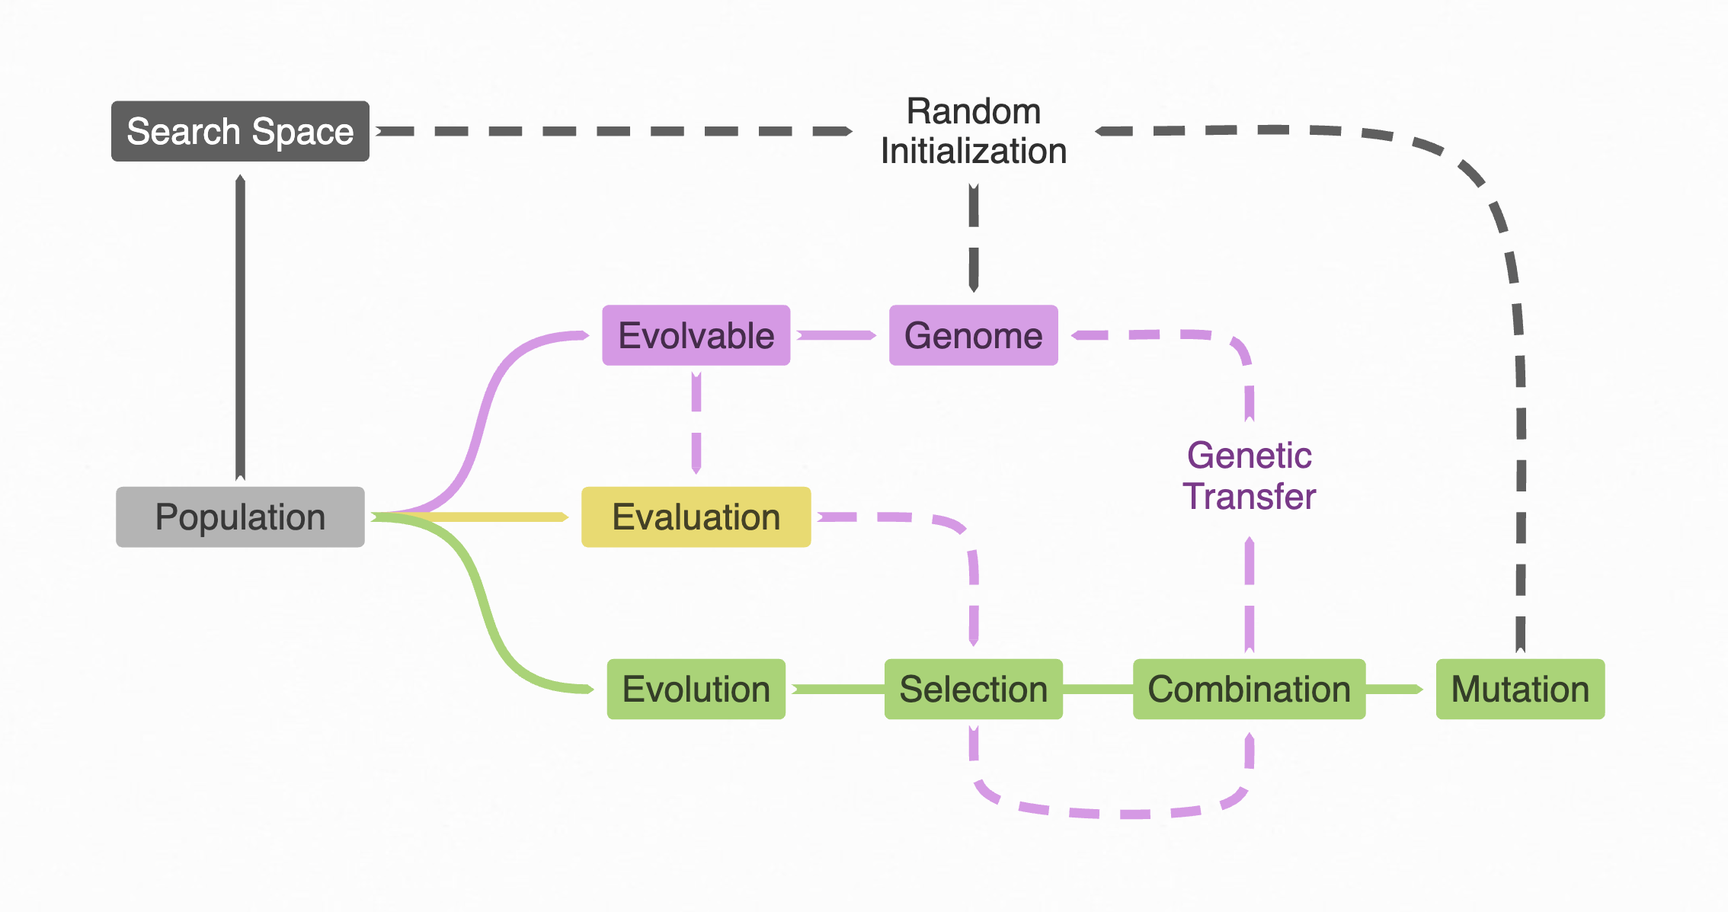
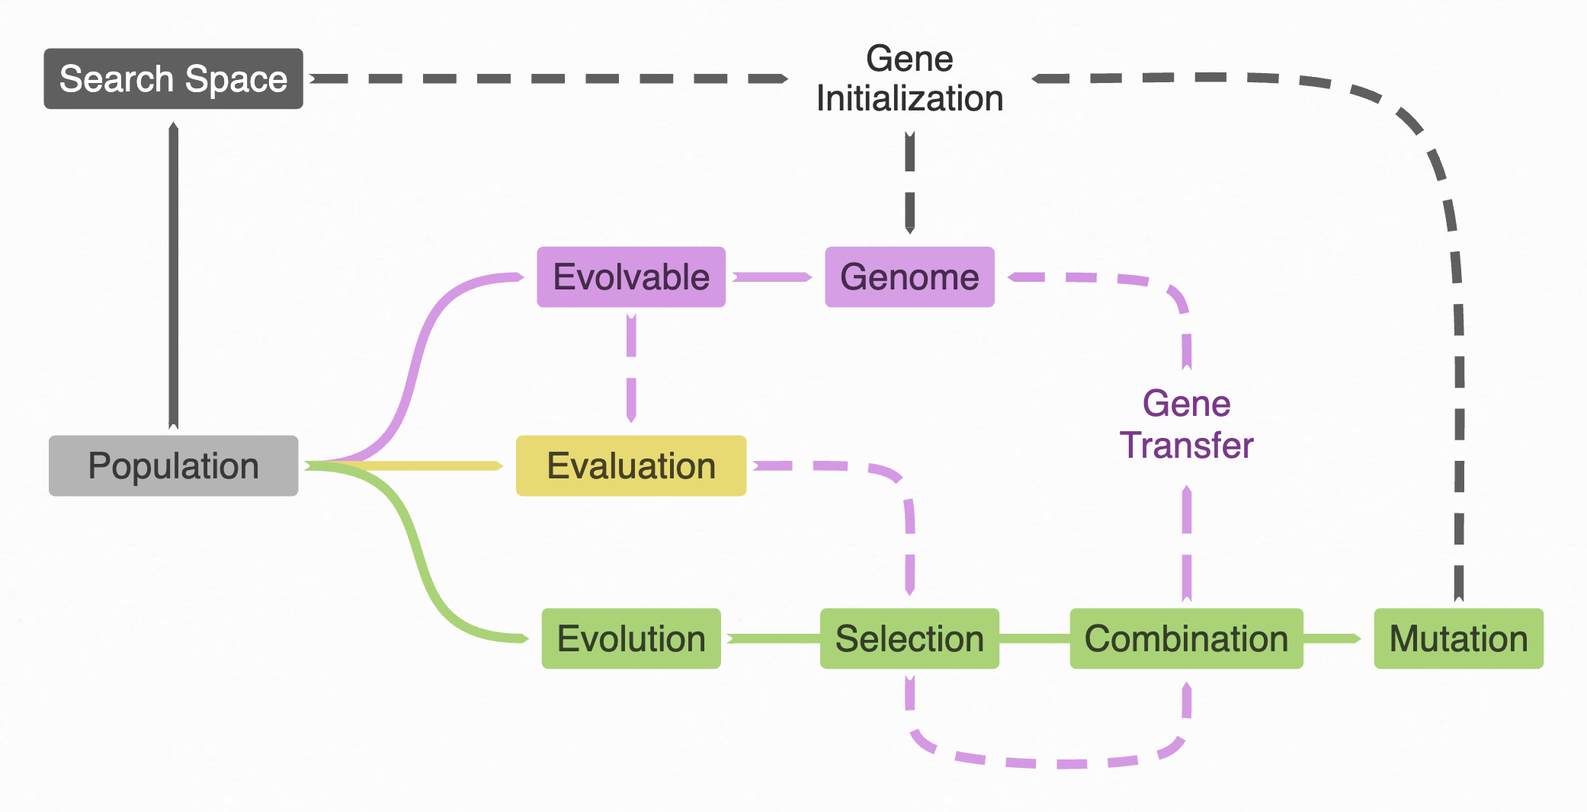
Update readme

diff --git a/README.md b/README.md
@@ -10,7 +10,6 @@ Please use this `main` branch and give me feedback as I work on polishing things
 
 ---
 
-
 An evolutionary framework for writing programs that use operations such as selection, crossover, and mutation. Explore ideas generatively in any domain, discover novel solutions to complex problems, and build intuitions about intelligence, complexity, and the natural world.
 
 Subscribe to the [Evolvable Newsletter](https://www.evolvable.site/newsletter) to slowly learn more, or keep reading this contextualization of the [full documentation](https://rubydoc.info/github/mattruzicka/evolvable).
@@ -41,15 +40,21 @@ To evolve instances, initialize a population with `.new_population` and use the
 4. [Initialize a population with `.new_population` and use `#evolve`.](https://rubydoc.info/github/mattruzicka/Evolvable/Population)
 
 
+To demonstrate these steps, we'll highlight the [Hello World](#) example program.
+
 ### Hello World
 
-To demonstrate these steps, we'll highlight the [Hello World](#) example program. Its goal is to evolve a population of arbitrary strings to be more like some target string. You can use with the command line demo by running `evolvable hello`. Below is example output from evolving a population of random strings to match "Hello World!", then "Hello Evolvable World".
+Try running `evolvable hello` at the command line. The goal is to evolve a population of arbitrary strings to be more like any given one.
+
+Below is example output from evolving a population of random initialized string objects to match "Hello World!", then "Hello Evolvable World".
 
 ```
+Enter a string to evolve: Hello World!
+
 pp`W^jXG'_N`%              Generation 0
-H-OQXZ\a~{H*               Generation 1
-HRv9X WorlNi               Generation 50
-HRl6W World#               Generation 100
+H-OQXZ\a~{H*               Generation 1 ...
+HRv9X WorlNi               Generation 50 ...
+HRl6W World#               Generation 100 ...
 Hello World!               Generation 165
 
 Enter a string to evolve: Hello Evolvable World
@@ -57,12 +62,12 @@ Enter a string to evolve: Hello Evolvable World
 Helgo World!b+=1}3         Generation 165
 Helgo Worlv!}:c(SoV        Generation 166
 Helgo WorlvsC`X(Joqs       Generation 167
-Helgo WorlvsC`X(So1RE      Generation 168
-Hello Evolv#"l{ Wor*5      Generation 300
+Helgo WorlvsC`X(So1RE      Generation 168 ...
+Hello Evolv#"l{ Wor*5      Generation 300 ...
 Hello Evolvable World      Generation 388
 ```
 
-To start, we'll define the `HelloWorld` class and **include the `Evolvable` module**.
+Let's implement this program. First we define the `HelloWorld` class and **include the `Evolvable` module**.
 
 ```ruby
 class HelloWorld
@@ -70,22 +75,25 @@ class HelloWorld
 end
 ```
 
-The next step is to **define the `.search_space`** class method which defines the range of [genes](#genes) that are available to our evolvable "hello world" instances. The [Search Space](#search-space) can be defined in a variety of ways. This example uses a shorthand syntax that's convenient when there's one type of gene. In our example, each gene will represent a single character.
+Next we **define the `.search_space`** class method with the types of [genes](#genes) that we want for our evolvable "hello world" instances. We'll use `CharGene` instances to represent single characters within strings. An instance with the string value of "Hello" would be composed of five `CharGene` instances.
 
 ```ruby
 class HelloWorld
   include Evolvable
-
+.
   def self.search_space
-    ["CharGene", 1..100]
+    ["CharGene", 1..40]
   end
 end
 ```
 
-The `1..100` specifies the range of possible genes for a particular evolvable HelloWorld instance. Evolvable translates this count definition into a `Evolvable::CountGene` object which undergoes evolutionary operations like any other gene. The effect of the count gene seen in the example output above, particularly in the changes from Generation 165 to 168.
+The [Search Space](#search-space) can be defined in a variety of ways. The above is shorthand that's useful for when there's only one type of gene. This method can also return an array of arrays or hash.
 
+The `1..40` specifies the range of possible genes for a particular HelloWorld instance. Evolvable translates this count definition into a `Evolvable::CountGene` object which undergoes evolutionary operations like any other gene.
 
-Now we'll **define the gene class** that we referenced in the above `.search_space` method. Gene classes should include the `Evolvable::Gene` module. When the `#to_s` method below is first used, Ruby's `||=` operator memoizes the result of randomly picking a char, so that he same char continues to be returned. It's important that, once accessed, the data for a particular gene never change.
+By specifying a range, an `Evolvable::CountGene` instance can change the number of genes that are present in an evovlable instance. The effects of the count gene can be seen in the changes from Generation 165 to 168 in the above example output.
+
+Now we'll **define the gene class** that we referenced in the above `.search_space` method. Gene classes should include the `Evolvable::Gene` module.
 
 ```ruby
 class CharGene
@@ -101,12 +109,14 @@ class CharGene
 end
 ```
 
-Now that we've defined the search space, we can now initialize `HelloWorld` instances with random genes, but to actually evolve them, we need to **define the `#value` instance method** which provides the basis for comparing different evolvable instances with each other.
+When the `#to_s` method first runs, Ruby's `||=` operator memoizes the result of randomly picking a char so that this method always returns the same char from the same gene instance. It's important that, once accessed, the data for a particular gene never change.
 
-For this program, the goal value is set to 0. This means we want the `#value` method to return numbers that are closer to 0 when instances more closely match our target value. If our target is "hello world", for example, an instance that produces "jello world" would have a value of 1 and "hello world" would have a vlaue of 0. Check out the full `HelloWorld` implementation at [examples/hello_world.rb](https://github.com/mattruzicka/evolvable/blob/main/examples/hello_world.rb).
+After defining the search space, we can now initialize `HelloWorld` instances with random genes, but to actually evolve them, we need to **define the `#value` instance method** which provides the basis for comparing different evolvable instances.
+
+For this program, the goal value is set to 0. This means we want the `#value` method to return numbers that are closer to 0 when instances more closely match our target value. If our target is "hello world", an instance that returns "jello world" would have a value of 1 and "hello world" would have a value of 0.
 
 
-Now it's time to **initialize a population with `.new_population`**. By default, our population seeks to maximize values. For this contrived example, we always know the best possible value, so setting the goal to a concrete number makes sense. We'll also specify the number of instances in a population using the `size` paramater and change the `mutation_probability` from 0.03 (3%) to 0.6 (60%).
+Now it's time to **initialize a population with `.new_population`**. By default, our population seeks to maximize values. In this program, we always know the best possible value, so setting the goal to a concrete number makes sense. We'll also specify the number of instances in a population using the `size` paramater and change the `mutation_probability` from 0.03 (3%) to 0.6 (60%).
 
 
 ```ruby
@@ -115,17 +125,19 @@ population = HelloWorld.new_population(size: 100, evaluation: evaluation)
 population.mutation_probability = 0.6
 ```
 
-For this application, a large `mutation_probability` can be speed up evolutionary time for shorter target strings, but tends to be a liability for longer ones. This is demonstrated in the example output above by how many generations it took to go from "Hello World!" to "Hello Evolvable World".
+For this application, a large `mutation_probability` can shortens the time it takes to evolve matches to short strings, but lengthens it longer ones. This is demonstrated in the example output above by how many generations it took to go from "Hello World!" to "Hello Evolvable World".
 
-Luckily, it's easy to dynamically change configurations by defining the following class method hooks whcih accept `population` as an argument.
+Luckily, it's easy to dynamically change configurations such as the `mutation_probability`  by hooking into the following methods.  the following  defining the following class method hooks whcih accept `population` as an argument.
 
 ### Evolvable Population Hooks
 
-1. `.before_evaluation` - Runs before evaluation.
+The following class methods can be implemented on your Evolvable class to hook into the Population#evolve lifecycle.
 
-2. `.before_evolution`- Runs after evaluation and before evolution.
+1. `.before_evaluation(population)` - Runs before evaluation.
 
-3. `.after_evolution` - Runs after evolution.
+2. `.before_evolution(population)`- Runs after evaluation and before evolution.
+
+3. `.after_evolution(population)` - Runs after evolution.
 
 
 This program uses `.before_evolution` to print the best value for each generation.
@@ -152,14 +164,20 @@ Finally we can **evolve the population with the `Evolvable::Population#evolve` i
 population.evolve
 ```
 
+We've now completed our walk through the fundamental steps to building evolvable programs of endless complexity in any domain.
+
+The exact implementation used by the command line demo can be found in [examples/hello_world.rb](https://github.com/mattruzicka/evolvable/blob/main/examples/hello_world.rb).
+
 
 ## Concepts
 
-[Populations](#populations) are composed of evolvables. Evolvables are instances of classes that include the `Evolvable` module and are composed of [genes](#genes) that include the `Evolvable::Gene` module. Genes constitute the [search space](#search-space). Evolvables delegate to gene objects to orchestrate behaviors. [Evaluation](#evaluation) and [evolution](#evolution) objects are used to evolve populations. By default, evolution is composed of [selection](#selection), [combination](#combination), and [mutation](#mutation).
+[Populations](#populations) are composed of evolvables which are composed of genes. Evolvables orchestrate behaviors by delegating to gene objects. Collections of genes are organized as genomes and constitute the [search space](#search-space). [Evaluation](#evaluation) and [evolution](#evolution) objects are used to evolve populations. By default, evolution is composed of [selection](#selection), [combination](#combination), and [mutation](#mutation).
 
-The Evolvable framework is designed with extensibility in mind. The core objects used such as [evaluation](#evaluation), [evolution](#evolution), [selection](#selection), [combination](#combination), and [mutation](#mutation) can be extended and swapped.
+The following concept map depicts how genes flow through populations.
 
 ![Concept Map](https://github.com/mattruzicka/evolvable/raw/main/examples/images/diagram.png)
+
+Evolvable is designed with extensibility in mind. Evolvable objects used such as [evaluation](#evaluation), [evolution](#evolution), [selection](#selection), [combination](#combination), and [mutation](#mutation) can be extended and swapped, potentially in a way that differs from the above graph.
 
 ## Genes
 For evolution to be effective, an evolvable's genes must be able to influence
@@ -246,7 +264,7 @@ for a particular evolvable. It is configured via the
 and used by populations to initialize new instances.
 
 
-Evolvable provides flexibility in how you define your search space. The following examples implementations for `.search_space` produce the exact same search space for the [Hello World](#hello-world) demo program. The different styles arguably vary in suitability for different contexts, perhaps depending on how programs are loaded and the number of different gene types.
+Evolvable provides flexibility in how you define your search space. The following example implementations for `.search_space` produce the exact same search space for the [Hello World](#hello-world) demo program. The different styles arguably vary in suitability for different contexts, perhaps depending on how programs are loaded and the number of different gene types.
 
 **Hash**
 
@@ -283,9 +301,6 @@ Evolvable provides flexibility in how you define your search space. The followin
 ```ruby
 ['chars', 'CharGene', 1..100]
 ```
-
-
-
 
 [Documentation](https://rubydoc.info/github/mattruzicka/Evolvable/SearchSpace)
 

diff --git a/README_YARD.md b/README_YARD.md
@@ -10,7 +10,6 @@ Please use this `main` branch and give me feedback as I work on polishing things
 
 ---
 
-
 An evolutionary framework for writing programs that use operations such as selection, crossover, and mutation. Explore ideas generatively in any domain, discover novel solutions to complex problems, and build intuitions about intelligence, complexity, and the natural world.
 
 Subscribe to the [Evolvable Newsletter](https://www.evolvable.site/newsletter) to slowly learn more, or keep reading this contextualization of the [full documentation](https://rubydoc.info/github/mattruzicka/evolvable).
@@ -32,15 +31,21 @@ Subscribe to the [Evolvable Newsletter](https://www.evolvable.site/newsletter) t
 
 {@readme Evolvable}
 
+To demonstrate these steps, we'll highlight the [Hello World](#) example program.
+
 ### Hello World
 
-To demonstrate these steps, we'll highlight the [Hello World](#) example program. Its goal is to evolve a population of arbitrary strings to be more like some target string. You can use with the command line demo by running `evolvable hello`. Below is example output from evolving a population of random strings to match "Hello World!", then "Hello Evolvable World".
+Try running `evolvable hello` at the command line. The goal is to evolve a population of arbitrary strings to be more like any given one.
+
+Below is example output from evolving a population of random initialized string objects to match "Hello World!", then "Hello Evolvable World".
 
 ```
+Enter a string to evolve: Hello World!
+
 pp`W^jXG'_N`%              Generation 0
-H-OQXZ\a~{H*               Generation 1
-HRv9X WorlNi               Generation 50
-HRl6W World#               Generation 100
+H-OQXZ\a~{H*               Generation 1 ...
+HRv9X WorlNi               Generation 50 ...
+HRl6W World#               Generation 100 ...
 Hello World!               Generation 165
 
 Enter a string to evolve: Hello Evolvable World
@@ -48,12 +53,12 @@ Enter a string to evolve: Hello Evolvable World
 Helgo World!b+=1}3         Generation 165
 Helgo Worlv!}:c(SoV        Generation 166
 Helgo WorlvsC`X(Joqs       Generation 167
-Helgo WorlvsC`X(So1RE      Generation 168
-Hello Evolv#"l{ Wor*5      Generation 300
+Helgo WorlvsC`X(So1RE      Generation 168 ...
+Hello Evolv#"l{ Wor*5      Generation 300 ...
 Hello Evolvable World      Generation 388
 ```
 
-To start, we'll define the `HelloWorld` class and **include the `Evolvable` module**.
+Let's implement this program. First we define the `HelloWorld` class and **include the `Evolvable` module**.
 
 ```ruby
 class HelloWorld
@@ -61,22 +66,25 @@ class HelloWorld
 end
 ```
 
-The next step is to **define the `.search_space`** class method which defines the range of [genes](#genes) that are available to our evolvable "hello world" instances. The [Search Space](#search-space) can be defined in a variety of ways. This example uses a shorthand syntax that's convenient when there's one type of gene. In our example, each gene will represent a single character.
+Next we **define the `.search_space`** class method with the types of [genes](#genes) that we want for our evolvable "hello world" instances. We'll use `CharGene` instances to represent single characters within strings. An instance with the string value of "Hello" would be composed of five `CharGene` instances.
 
 ```ruby
 class HelloWorld
   include Evolvable
-
+.
   def self.search_space
-    ["CharGene", 1..100]
+    ["CharGene", 1..40]
   end
 end
 ```
 
-The `1..100` specifies the range of possible genes for a particular evolvable HelloWorld instance. Evolvable translates this count definition into a `Evolvable::CountGene` object which undergoes evolutionary operations like any other gene. The effect of the count gene seen in the example output above, particularly in the changes from Generation 165 to 168.
+The [Search Space](#search-space) can be defined in a variety of ways. The above is shorthand that's useful for when there's only one type of gene. This method can also return an array of arrays or hash.
 
+The `1..40` specifies the range of possible genes for a particular HelloWorld instance. Evolvable translates this count definition into a `Evolvable::CountGene` object which undergoes evolutionary operations like any other gene.
 
-Now we'll **define the gene class** that we referenced in the above `.search_space` method. Gene classes should include the `Evolvable::Gene` module. When the `#to_s` method below is first used, Ruby's `||=` operator memoizes the result of randomly picking a char, so that he same char continues to be returned. It's important that, once accessed, the data for a particular gene never change.
+By specifying a range, an `Evolvable::CountGene` instance can change the number of genes that are present in an evovlable instance. The effects of the count gene can be seen in the changes from Generation 165 to 168 in the above example output.
+
+Now we'll **define the gene class** that we referenced in the above `.search_space` method. Gene classes should include the `Evolvable::Gene` module.
 
 ```ruby
 class CharGene
@@ -92,12 +100,14 @@ class CharGene
 end
 ```
 
-Now that we've defined the search space, we can now initialize `HelloWorld` instances with random genes, but to actually evolve them, we need to **define the `#value` instance method** which provides the basis for comparing different evolvable instances with each other.
+When the `#to_s` method first runs, Ruby's `||=` operator memoizes the result of randomly picking a char so that this method always returns the same char from the same gene instance. It's important that, once accessed, the data for a particular gene never change.
 
-For this program, the goal value is set to 0. This means we want the `#value` method to return numbers that are closer to 0 when instances more closely match our target value. If our target is "hello world", for example, an instance that produces "jello world" would have a value of 1 and "hello world" would have a vlaue of 0. Check out the full `HelloWorld` implementation at [examples/hello_world.rb](https://github.com/mattruzicka/evolvable/blob/main/examples/hello_world.rb).
+After defining the search space, we can now initialize `HelloWorld` instances with random genes, but to actually evolve them, we need to **define the `#value` instance method** which provides the basis for comparing different evolvable instances.
+
+For this program, the goal value is set to 0. This means we want the `#value` method to return numbers that are closer to 0 when instances more closely match our target value. If our target is "hello world", an instance that returns "jello world" would have a value of 1 and "hello world" would have a value of 0.
 
 
-Now it's time to **initialize a population with `.new_population`**. By default, our population seeks to maximize values. For this contrived example, we always know the best possible value, so setting the goal to a concrete number makes sense. We'll also specify the number of instances in a population using the `size` paramater and change the `mutation_probability` from 0.03 (3%) to 0.6 (60%).
+Now it's time to **initialize a population with `.new_population`**. By default, our population seeks to maximize values. In this program, we always know the best possible value, so setting the goal to a concrete number makes sense. We'll also specify the number of instances in a population using the `size` paramater and change the `mutation_probability` from 0.03 (3%) to 0.6 (60%).
 
 
 ```ruby
@@ -106,15 +116,17 @@ population = HelloWorld.new_population(size: 100, evaluation: evaluation)
 population.mutation_probability = 0.6
 ```
 
-For this application, a large `mutation_probability` can be speed up evolutionary time for shorter target strings, but tends to be a liability for longer ones. This is demonstrated in the example output above by how many generations it took to go from "Hello World!" to "Hello Evolvable World".
+For this application, a large `mutation_probability` can shortens the time it takes to evolve matches to short strings, but lengthens it longer ones. This is demonstrated in the example output above by how many generations it took to go from "Hello World!" to "Hello Evolvable World".
 
-Luckily, it's easy to dynamically change configurations by defining the following class method hooks whcih accept `population` as an argument.
+Luckily, it's easy to dynamically change configurations such as the `mutation_probability`  by hooking into the following methods.  the following  defining the following class method hooks whcih accept `population` as an argument.
 
 ### Evolvable Population Hooks
 
-1. `.before_evaluation` - {@readme Evolvable::ClassMethods#before_evaluation}
-2. `.before_evolution`- {@readme Evolvable::ClassMethods#before_evolution}
-3. `.after_evolution` - {@readme Evolvable::ClassMethods#after_evolution}
+The following class methods can be implemented on your Evolvable class to hook into the Population#evolve lifecycle.
+
+1. `.before_evaluation(population)` - {@readme Evolvable::ClassMethods#before_evaluation}
+2. `.before_evolution(population)`- {@readme Evolvable::ClassMethods#before_evolution}
+3. `.after_evolution(population)` - {@readme Evolvable::ClassMethods#after_evolution}
 
 This program uses `.before_evolution` to print the best value for each generation.
 
@@ -140,14 +152,20 @@ Finally we can **evolve the population with the `Evolvable::Population#evolve` i
 population.evolve
 ```
 
+We've now completed our walk through the fundamental steps to building evolvable programs of endless complexity in any domain.
+
+The exact implementation used by the command line demo can be found in [examples/hello_world.rb](https://github.com/mattruzicka/evolvable/blob/main/examples/hello_world.rb).
+
 
 ## Concepts
 
-[Populations](#populations) are composed of evolvables. Evolvables are instances of classes that include the `Evolvable` module and are composed of [genes](#genes) that include the `Evolvable::Gene` module. Genes constitute the [search space](#search-space). Evolvables delegate to gene objects to orchestrate behaviors. [Evaluation](#evaluation) and [evolution](#evolution) objects are used to evolve populations. By default, evolution is composed of [selection](#selection), [combination](#combination), and [mutation](#mutation).
+[Populations](#populations) are composed of evolvables which are composed of genes. Evolvables orchestrate behaviors by delegating to gene objects. Collections of genes are organized as genomes and constitute the [search space](#search-space). [Evaluation](#evaluation) and [evolution](#evolution) objects are used to evolve populations. By default, evolution is composed of [selection](#selection), [combination](#combination), and [mutation](#mutation).
 
-The Evolvable framework is designed with extensibility in mind. The core objects used such as [evaluation](#evaluation), [evolution](#evolution), [selection](#selection), [combination](#combination), and [mutation](#mutation) can be extended and swapped.
+The following concept map depicts how genes flow through populations.
 
 ![Concept Map](https://github.com/mattruzicka/evolvable/raw/main/examples/images/diagram.png)
+
+Evolvable is designed with extensibility in mind. Evolvable objects used such as [evaluation](#evaluation), [evolution](#evolution), [selection](#selection), [combination](#combination), and [mutation](#mutation) can be extended and swapped, potentially in a way that differs from the above graph.
 
 ## Genes
 {@readme Evolvable::Gene}
@@ -187,7 +205,7 @@ The Evolvable framework is designed with extensibility in mind. The core objects
 ## Search Space
 {@readme Evolvable::SearchSpace}
 
-Evolvable provides flexibility in how you define your search space. The following examples implementations for `.search_space` produce the exact same search space for the [Hello World](#hello-world) demo program. The different styles arguably vary in suitability for different contexts, perhaps depending on how programs are loaded and the number of different gene types.
+Evolvable provides flexibility in how you define your search space. The following example implementations for `.search_space` produce the exact same search space for the [Hello World](#hello-world) demo program. The different styles arguably vary in suitability for different contexts, perhaps depending on how programs are loaded and the number of different gene types.
 
 **Hash**
 
@@ -224,9 +242,6 @@ Evolvable provides flexibility in how you define your search space. The followin
 ```ruby
 ['chars', 'CharGene', 1..100]
 ```
-
-
-
 
 [Documentation](https://rubydoc.info/github/mattruzicka/Evolvable/SearchSpace)
 
